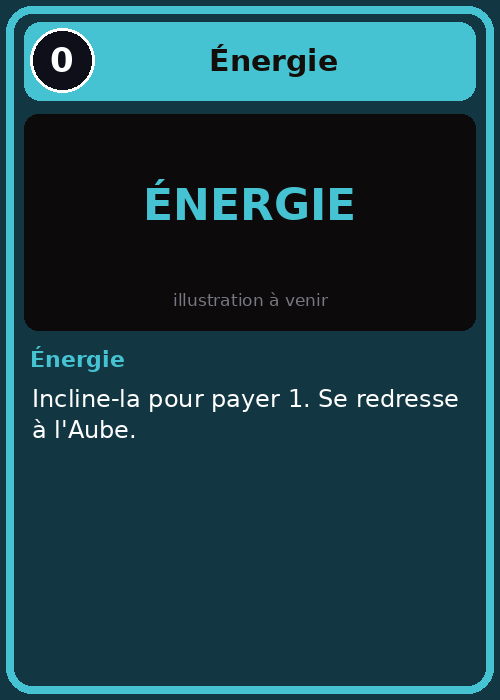
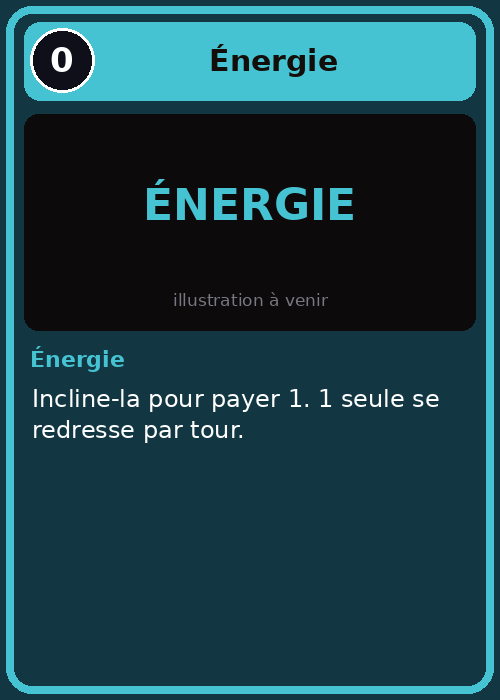
Énergie : 1 seule se redresse par tour
Claude-Session: https://claude.ai/code/session_01Ei1ETxKFF4cSM4RwXRQ4jQ

Changed region(s): [[0.63, 0.54, 0.93, 0.6], [0.06, 0.6, 0.48, 0.63]]

diff --git a/tools/generate.py b/tools/generate.py
@@ -93,7 +93,7 @@ CARDS = [
     C("carte-tresor", "Carte au trésor", "Tresor", 0, "Relique",
       "+1 trésor à chaque Nuit. Gardée au Camp, volable par raid.", legal=1),
     C("energie", "Énergie", "Energie", 0, "Energie",
-      "Incline-la pour payer 1. Se redresse à l'Aube.", legal=False, token=True),
+      "Incline-la pour payer 1. 1 seule se redresse par tour.", legal=False, token=True),
     # --- Donjon ---
     C("monstre-1", "Monstre test 1", "Monstre", 0, "Monstre", "Valeur : 1 trésor.", 2, 3, legal=False, token=True),
     C("monstre-2", "Monstre test 2", "Monstre", 0, "Monstre", "Valeur : 2 trésors.", 3, 5, legal=False, token=True),
